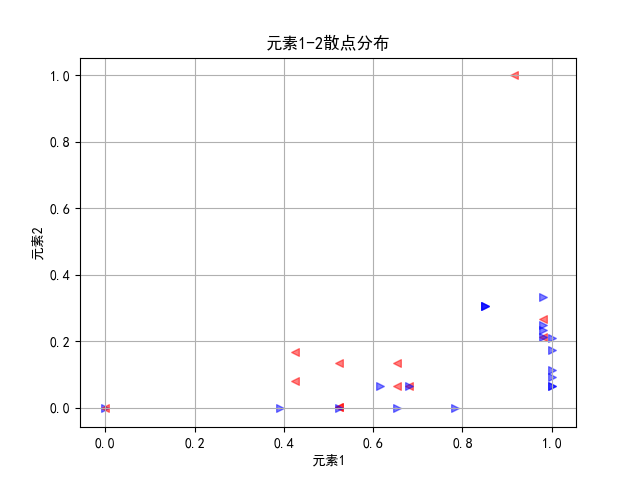
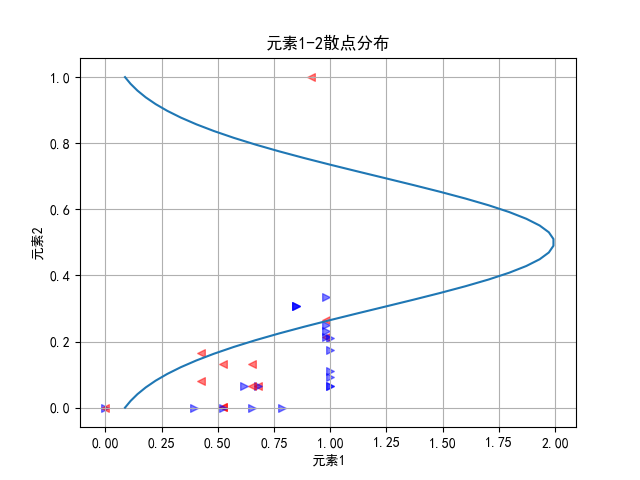
add normal function into each fig

diff --git a/run.py b/run.py
@@ -9,6 +9,7 @@ from itertools import combinations, permutations
 import math
 import logging
 import scipy as sp
+from scipy import stats
 import xlrd
 import json
 import random
@@ -84,7 +85,10 @@ def single_svm_train(train_x,train_y,test_x,test_y):
             test_x_normal[:, i] = (x_test[:, i] - min[0, i]) / (max[0, i] - min[0, i])
     targeted_rate = clf.score(test_x_normal, test_y)
     return targeted_rate,clf
-
+def normpdf(x, mu, sigma):
+    u = (x-mu)/abs(sigma)
+    y = (1/(np.sqrt(2*np.pi)*abs(sigma)))*np.exp(-u*u/2)
+    return y
 # data = xlrd.open_workbook('data.xlsx')
 # table = data.sheets()[6]
 # with open('data7.json', 'w') as json_file:
@@ -141,25 +145,37 @@ for j in range(np.size(all_x_data[0, :])):
         all_x_normal[:, j] = (all_x_data[:, j] - min[0, j]) / (max[0, j] - min[0, j])
 x_col_num = [i for i in range(data_cols-1)]
 x_2_col_comb = list(combinations(x_col_num, 2))
-x_3_col_comb = list(combinations(x_col_num, 3))
-for j in range(len(x_3_col_comb)):
+x_col_comb = list(combinations(x_col_num, 2))
+for j in range(len(x_col_comb)):
     fig = plt.figure(0)
-    ax = fig.add_subplot(111,projection='3d')
-    x_col_num = x_3_col_comb[j][0]
-    y_col_num = x_3_col_comb[j][1]
-    z_col_num = x_3_col_comb[j][2]
+    # ax = fig
+    # ax = fig.add_subplot(111,projection='2d')
+    ax = fig.add_subplot(111)
+    x_col_num = x_col_comb[j][0]
+    y_col_num = x_col_comb[j][1]
+    # z_col_num = x_col_comb[j][2]
+    norm_x = np.linspace(0, 1, 50)
+    # print x.shape
+    norm_y = stats.norm.pdf(norm_x, 0.5,0.2)
+    # 绘制高斯分布
+    plt.plot(norm_y, norm_x)
     for i in range(data_rows):
         if all_y_data[i,0] == -1:
-            ax.scatter(np.array(all_x_normal[i, x_col_num]), np.array(all_x_normal[i, y_col_num]),np.array(all_x_normal[i, z_col_num]),s = 30,alpha=0.5,c = 'r',marker = '<')
+            ax.scatter(np.array(all_x_normal[i, x_col_num]), np.array(all_x_normal[i, y_col_num]),s = 30,alpha=0.5,c = 'r',marker = '<')
+            # ax.scatter(np.array(all_x_normal[i, x_col_num]), np.array(all_x_normal[i, y_col_num]),np.array(all_x_normal[i, z_col_num]),s = 30,alpha=0.5,c = 'r',marker = '<')
         else:
-            ax.scatter(np.array(all_x_normal[i, x_col_num]), np.array(all_x_normal[i, y_col_num]),np.array(all_x_normal[i, z_col_num]),s = 30,alpha=0.5,c = 'b',marker = '>')
-    ax.set_title('元素'+str(x_col_num+1)+'-'+str(y_col_num+1)+'-'+str(z_col_num+1)+'散点分布')#显示图表标题
+            ax.scatter(np.array(all_x_normal[i, x_col_num]), np.array(all_x_normal[i, y_col_num]),s = 30,alpha=0.5,c = 'b',marker = '>')
+            # ax.scatter(np.array(all_x_normal[i, x_col_num]), np.array(all_x_normal[i, y_col_num]),np.array(all_x_normal[i, z_col_num]),s = 30,alpha=0.5,c = 'b',marker = '>')
+    # ax.set_title('元素'+str(x_col_num+1)+'-'+str(y_col_num+1)+'-'+str(z_col_num+1)+'散点分布')#显示图表标题
+    ax.set_title('元素'+str(x_col_num+1)+'-'+str(y_col_num+1)+'散点分布')#显示图表标题
     ax.set_xlabel('元素'+str(x_col_num+1))#x轴名称
     ax.set_ylabel('元素'+str(y_col_num+1))#y轴名称
-    ax.set_zlabel('元素'+str(z_col_num+1))#z轴名称
+    # ax.set_zlabel('元素'+str(z_col_num+1))#z轴名称
     ax.grid(True)#显示网格线
     plt.show()
-    fig.savefig('元素'+str(x_col_num+1)+'-'+str(y_col_num+1)+'-'+str(z_col_num+1)+'散点分布.png')
+    fig.savefig('元素'+str(x_col_num+1)+'-'+str(y_col_num+1)+'散点分布.png')
+    exit()
+    # fig.savefig('元素'+str(x_col_num+1)+'-'+str(y_col_num+1)+'-'+str(z_col_num+1)+'散点分布.png')
 
 
 print('------------------可视化数据------------------------')
